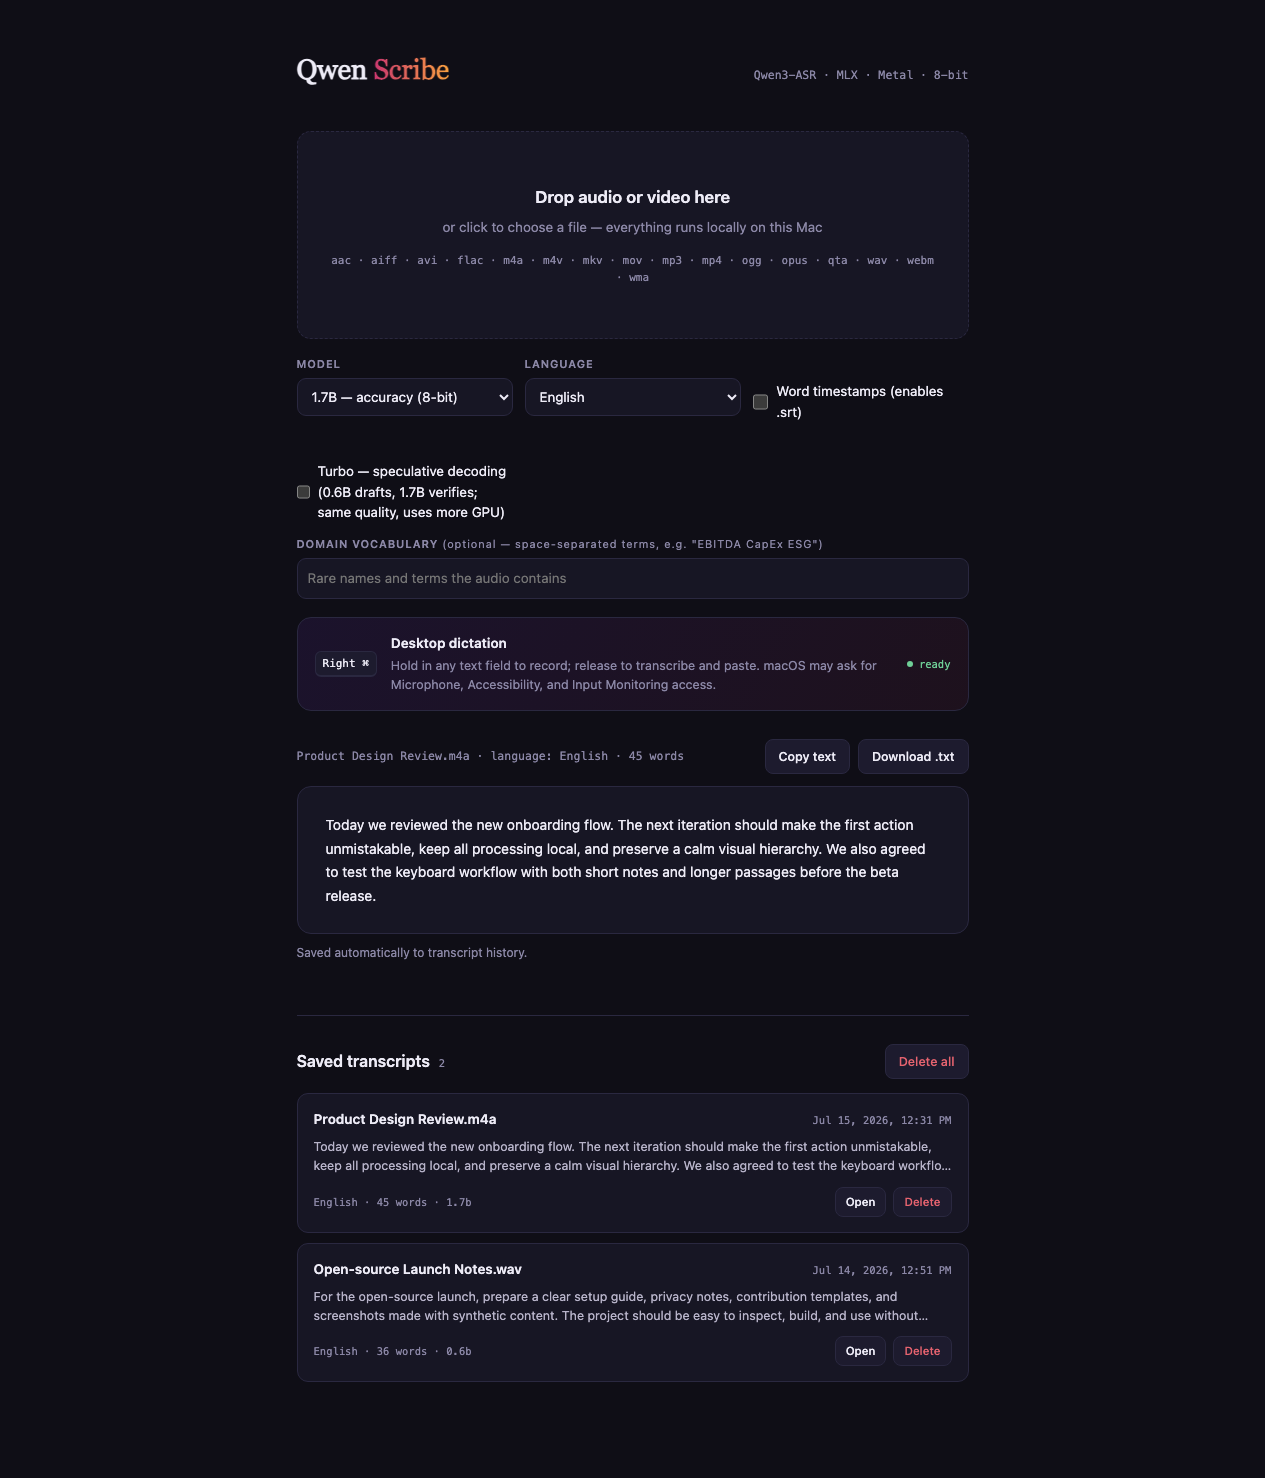
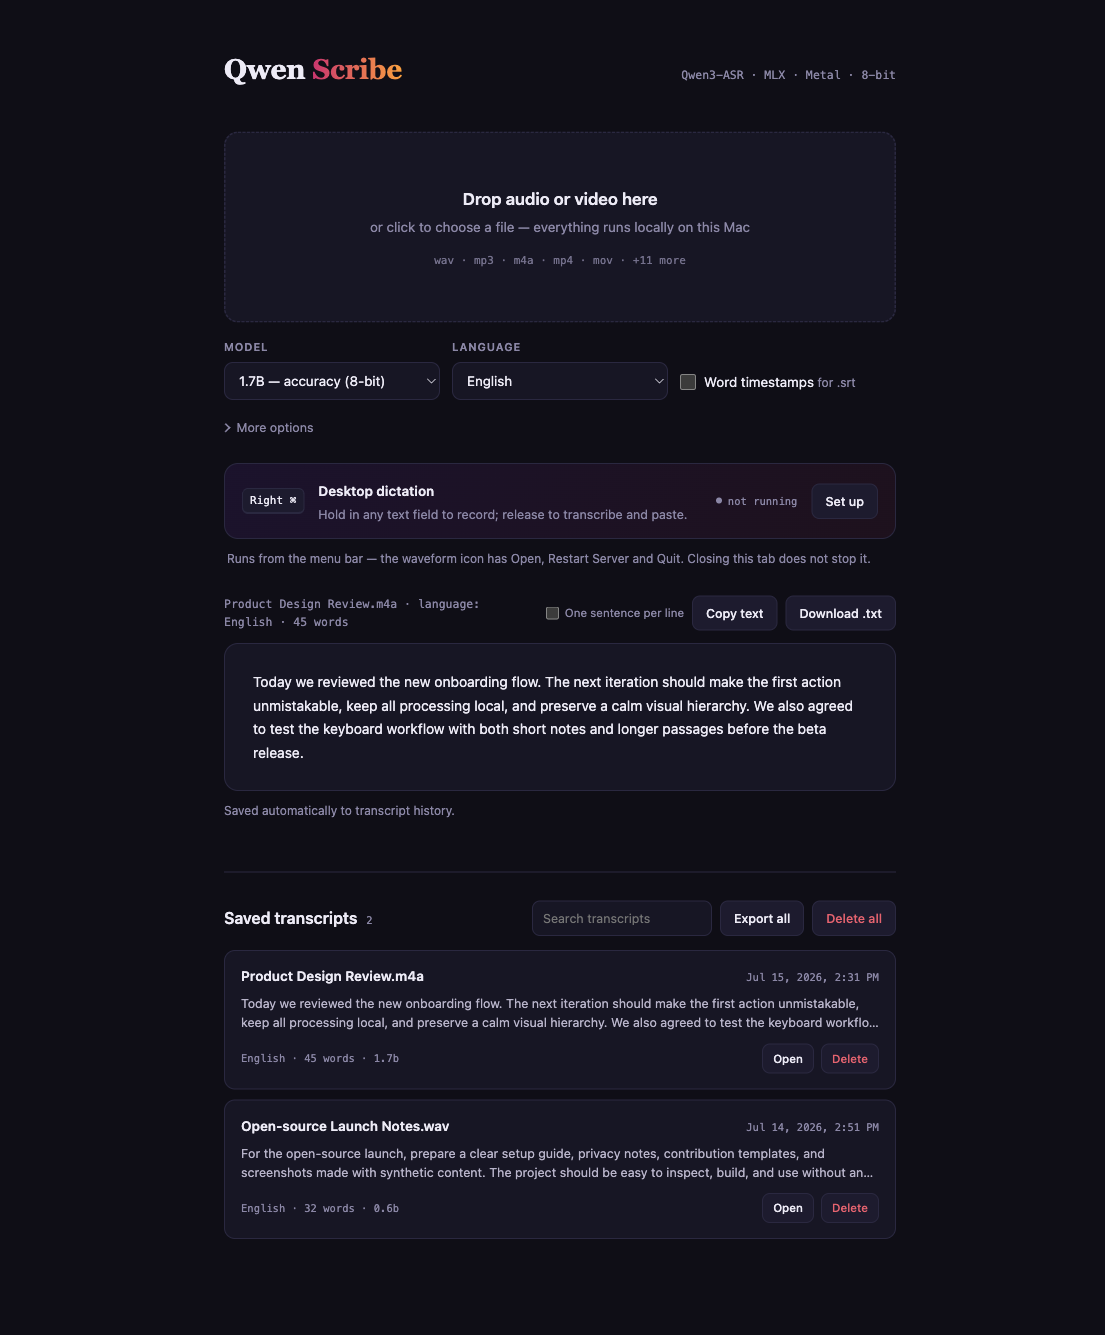
Give the page a primary path instead of showing everything at once (#13)
* Give the page a primary path instead of showing everything at once

The interface had grown to show every control it owns, all at the same
weight, before the user had done anything: five dropdowns, two checkboxes,
a text field, six uppercase labels, three paragraphs of prose and a
seventeen-item format list. v0.2.2 was much of that — the size-limit note,
the menu-bar paragraph, the sentence-per-line toggle and the queue all
arrived without anything leaving to make room.

What stays visible is what a person changes per file: the drop zone, model,
language, and word timestamps. Domain vocabulary, the full format list and
the size limit move into a "More options" disclosure, which opens itself
when anything inside it is non-default — a setting that is doing something
is never hidden behind a summary nobody has reason to open.

Speculative decoding is no longer offered. Its own label admitted it is
slower than the default, so it was a control whose honest description told
people not to use it. The server keeps the parameter; only the checkbox
goes, until it is actually faster.

Desktop dictation becomes one strip rather than a card with two paragraphs
and three dropdowns above the fold. Its settings move behind "Set up",
which also ends the collision between Model/Language and Dictation
model/Dictation language — near-identical controls for different tasks that
were previously on screen together. The permissions sentence now appears
[…]

diff --git a/static/index.html b/static/index.html
@@ -20,6 +20,9 @@
     --radius: 14px;
   }
   * { box-sizing: border-box; margin: 0; padding: 0; }
+  /* A class that sets `display` outranks the user agent's [hidden] rule, so
+     without this a hidden .options grid stays on screen. */
+  [hidden] { display: none !important; }
   html { color-scheme: dark; }
   body {
     background: var(--bg);
@@ -66,8 +69,7 @@
   .drop.dragover { border-color: var(--amber); background: var(--panel-2); }
   .drop h2 { font-size: 17px; font-weight: 600; margin-bottom: 6px; }
   .drop p { color: var(--muted); font-size: 13.5px; }
-  .drop .formats { font-family: ui-monospace, "SFMono-Regular", Menlo, monospace; font-size: 11px; margin-top: 14px; color: var(--muted); }
-  .drop .drop-note { font-size: 11.5px; margin-top: 10px; opacity: .72; }
+  .drop .formats { font-family: ui-monospace, "SFMono-Regular", Menlo, monospace; font-size: 11px; margin-top: 14px; color: var(--muted); opacity: .8; }
   input[type=file] { display: none; }
 
   /* Options */
@@ -100,11 +102,43 @@
   .field-wide { grid-column: 1 / -1; }
   .check { display: flex; align-items: center; gap: 8px; padding-top: 26px; }
   .check input { accent-color: var(--amber); width: 16px; height: 16px; }
-  .check label { font-size: 13.5px; cursor: pointer; }
+  .check label { font-size: 13.5px; cursor: pointer; white-space: nowrap; }
+  .check .hint { color: var(--muted); font-size: 12px; }
+
+  /* Secondary options — present, but not competing with the primary path */
+  .more { margin-top: 14px; }
+  .more > summary {
+    display: inline-flex;
+    align-items: center;
+    gap: 6px;
+    width: fit-content;
+    font-size: 12.5px;
+    color: var(--muted);
+    cursor: pointer;
+    list-style: none;
+    padding: 4px 0;
+  }
+  .more > summary::-webkit-details-marker { display: none; }
+  .more > summary::before {
+    content: "";
+    width: 5px; height: 5px;
+    border-right: 1.5px solid currentColor;
+    border-bottom: 1.5px solid currentColor;
+    transform: rotate(-45deg) translate(-1px, -1px);
+    transition: transform 140ms ease;
+  }
+  .more[open] > summary::before { transform: rotate(45deg) translate(-1px, -1px); }
+  .more > summary:hover, .more > summary:focus-visible { color: var(--text); outline: none; }
+  .more-body { margin-top: 10px; }
+  .more-note { color: var(--muted); font-size: 12px; line-height: 1.55; margin-top: 10px; }
+  .more-note #formatsFull { font-family: ui-monospace, "SFMono-Regular", Menlo, monospace; font-size: 11px; }
 
   /* Desktop dictation */
+  /* The card keeps its weight — dictation is a real capability, and the panel
+     is what makes it read as one. What it does not get back is the two
+     paragraphs of prose that used to fill it. */
   .dictation {
-    margin-top: 18px;
+    margin-top: 22px;
     display: flex;
     align-items: center;
     gap: 14px;
@@ -114,9 +148,10 @@
     padding: 15px 17px;
   }
   .dictation-copy { flex: 1; min-width: 0; }
-  .dictation-title { display: flex; align-items: center; gap: 9px; font-size: 13.5px; font-weight: 600; }
-  .dictation-copy p { color: var(--muted); font-size: 12.5px; line-height: 1.5; margin-top: 3px; }
-  .dictation-copy p + p { margin-top: 7px; }
+  .dictation-title { font-size: 13.5px; font-weight: 600; }
+  .dictation-lede { display: block; color: var(--muted); font-size: 12.5px; line-height: 1.5; margin-top: 2px; }
+  .dictation-permissions { color: var(--amber); font-size: 12.5px; line-height: 1.5; margin-top: 6px; }
+  .menubar-note { color: var(--muted); font-size: 12px; line-height: 1.5; margin-top: 10px; padding: 0 3px; }
   .dictation-status { font-family: ui-monospace, "SFMono-Regular", Menlo, monospace; font-size: 10.5px; color: var(--muted); white-space: nowrap; }
   .dictation-status::before { content: ""; display: inline-block; width: 6px; height: 6px; border-radius: 50%; background: var(--muted); margin-right: 6px; vertical-align: 1px; }
   .dictation-status.ready { color: var(--ok); }
@@ -171,9 +206,18 @@
   /* Transcript */
   .transcript { margin-top: 28px; display: none; }
   .transcript.visible { display: block; }
-  .t-head { display: flex; justify-content: space-between; align-items: center; margin-bottom: 12px; }
-  .t-meta { font-family: ui-monospace, "SFMono-Regular", Menlo, monospace; font-size: 11.5px; color: var(--muted); }
-  .t-actions { display: flex; gap: 8px; align-items: center; }
+  .t-head { display: flex; justify-content: space-between; align-items: center; gap: 16px; margin-bottom: 12px; }
+  /* The actions keep their width so a button is never broken across two lines;
+     the metadata wraps instead, since truncating it loses the word count. */
+  .t-meta {
+    font-family: ui-monospace, "SFMono-Regular", Menlo, monospace;
+    font-size: 11.5px;
+    color: var(--muted);
+    min-width: 0;
+    overflow-wrap: anywhere;
+  }
+  .t-actions { display: flex; gap: 8px; align-items: center; flex: none; }
+  .t-actions button.act { white-space: nowrap; }
   .t-toggle { display: flex; align-items: center; gap: 6px; font-size: 11.5px; color: var(--muted); white-space: nowrap; cursor: pointer; }
   button.act {
     background: var(--panel-2);
@@ -269,8 +313,7 @@
   <div class="drop" id="drop" tabindex="0" role="button" aria-label="Upload audio or video file">
     <h2>Drop audio or video here</h2>
     <p>or click to choose a file — everything runs locally on this Mac</p>
-    <div class="formats" id="formats">wav · mp3 · m4a · flac · ogg · qta · mp4 · mov · mkv · webm</div>
-    <p class="drop-note">Up to 4 GB per file — the upload is staged on disk before transcribing. For a longer video, extract the audio track first.</p>
+    <div class="formats" id="formats">wav · mp3 · m4a · mp4 · mov</div>
   </div>
   <input type="file" id="file" accept="audio/*,video/*,.mkv,.opus,.qta">
 
@@ -288,26 +331,36 @@
     </div>
     <div class="check">
       <input type="checkbox" id="timestamps">
-      <label for="timestamps">Word timestamps (enables .srt)</label>
-    </div>
-    <div class="check" id="turboWrap">
-      <input type="checkbox" id="turbo">
-      <label for="turbo">Experimental speculative decoding — currently slower in upstream benchmarks; same quality, uses more GPU</label>
-    </div>
-    <div class="field field-wide">
-      <label for="context">Domain vocabulary <span style="text-transform:none;font-weight:400">(optional — space-separated terms, e.g. "EBITDA CapEx ESG")</span></label>
-      <input type="text" id="context" maxlength="2000" placeholder="Rare names and terms the audio contains">
+      <label for="timestamps">Word timestamps <span class="hint">for .srt</span></label>
     </div>
   </div>
+
+  <details class="more" id="moreOptions">
+    <summary>More options</summary>
+    <div class="more-body">
+      <div class="field">
+        <label for="context">Domain vocabulary</label>
+        <input type="text" id="context" maxlength="2000" placeholder="Rare names and terms the audio contains — space separated, e.g. EBITDA CapEx ESG">
+      </div>
+      <p class="more-note">
+        Accepts <span id="formatsFull">audio and video files</span>.
+        Up to 4 GB per file: the upload is staged on disk before transcribing, so
+        one job briefly needs twice the file's size free. For a longer video,
+        transcribe its extracted audio track instead.
+      </p>
+    </div>
+  </details>
 
   <div class="dictation" aria-live="polite">
     <kbd id="dictationKey">Right ⌘</kbd>
     <div class="dictation-copy">
-      <div class="dictation-title">Desktop dictation</div>
-      <p>Hold in any text field to record; release to transcribe and paste. macOS may ask for Microphone, Accessibility, and Input Monitoring access.</p>
-      <p>Qwen Scribe runs from the menu bar — the waveform icon at the top right of the screen has Open, Restart Server, and Quit. Closing this tab does not stop it.</p>
+      <span class="dictation-title">Desktop dictation</span>
+      <span class="dictation-lede">Hold in any text field to record; release to transcribe and paste.</span>
+      <p class="dictation-permissions" id="dictationPermissions" hidden></p>
     </div>
     <div class="dictation-status" id="dictationStatus">starting</div>
+    <button class="act" id="btnDictationSetup" aria-expanded="false"
+            aria-controls="dictationSettings" hidden>Set up</button>
   </div>
 
   <div class="options dictation-settings" id="dictationSettings" hidden>
@@ -325,6 +378,8 @@
     </div>
     <div class="settings-note field-wide" id="settingsNote">Changes apply to desktop dictation within about ten seconds.</div>
   </div>
+
+  <p class="menubar-note">Runs from the menu bar — the waveform icon has Open, Restart Server and Quit. Closing this tab does not stop it.</p>
 
   <div class="job" id="job">
     <div class="job-head">
@@ -446,7 +501,15 @@
     // the picker filter, and the upload check can never drift apart.
     if (Array.isArray(cfg.extensions) && cfg.extensions.length) {
       allowedExtensions = new Set(cfg.extensions.map(e => e.toLowerCase()));
-      $("formats").textContent = cfg.extensions.map(e => e.replace(/^\./, "")).join(" · ");
+      const bare = cfg.extensions.map(e => e.replace(/^\./, ""));
+      // The drop zone names the handful of formats people actually have; the
+      // full list is reassurance, not instruction, so it lives in More options.
+      const COMMON = ["wav", "mp3", "m4a", "mp4", "mov"];
+      const shown = COMMON.filter(e => bare.includes(e));
+      const rest = bare.length - shown.length;
+      $("formats").textContent =
+        shown.join(" · ") + (rest > 0 ? ` · +${rest} more` : "");
+      $("formatsFull").textContent = bare.join(", ");
       $("file").accept = cfg.extensions.join(",");
     }
     if (cfg.quantized) {
@@ -516,7 +579,8 @@
     form.append("model", $("model").value);
     form.append("language", $("language").value);
     form.append("timestamps", $("timestamps").checked);
-    form.append("turbo", $("turbo").checked && $("model").value === "1.7b");
+    // Speculative decoding is not offered: the pinned upstream implementation
+    // benchmarks slower than plain decoding, so the server default stands.
     form.append("context", $("context").value);
 
     let res;
@@ -795,13 +859,6 @@
     }
   }
 
-  function syncTurboAvailability() {
-    const is06 = $("model").value === "0.6b";
-    $("turbo").disabled = is06;
-    $("turboWrap").style.opacity = is06 ? 0.4 : 1;
-  }
-  $("model").addEventListener("change", syncTurboAvailability);
-
   // Split after sentence-final punctuation, keeping the mark — and any closing
   // quote or bracket belonging to it — on the sentence it ends. Two cases,
   // because Chinese and Japanese are written without spaces: an ideographic
@@ -1030,7 +1087,9 @@
     fill($("setModel"), body.options.models, body.dictation.model);
     fill($("setLanguage"), body.options.languages, body.dictation.language);
     $("dictationKey").textContent = HOTKEY_LABELS[body.dictation.hotkey] || "Right ⌘";
-    $("dictationSettings").hidden = false;
+    // The settings themselves stay folded away; only the way in appears, and
+    // only once there is something behind it to show.
+    $("btnDictationSetup").hidden = false;
     await configReady.catch(() => {});
     applyTranscriptionSettings(body.transcription);
   }
@@ -1042,16 +1101,17 @@
     $("model").value = stored.model;
     $("language").value = stored.language;
     $("timestamps").checked = stored.timestamps;
-    $("turbo").checked = stored.turbo;
     // This also runs when a later save fails and resyncs everything, so an
     // edit still inside its debounce must not be overwritten by the value it
     // is about to replace.
     if (contextSaveTimer === null) $("context").value = stored.context;
     $("oneSentencePerLine").checked = stored.sentence_per_line;
+    // Never leave a setting that is doing something hidden behind a summary
+    // the user has no reason to open.
+    if (stored.context) $("moreOptions").open = true;
     // Called directly rather than by dispatching "change", which would also
     // fire the save listener and write the settings straight back on load.
     // The redraw that listener would have triggered still has to happen.
-    syncTurboAvailability();
     renderTranscriptBody();
   }
 
@@ -1073,7 +1133,7 @@
     transcriptionSavesBound = true;
     ["model", "language"].forEach(id =>
       $(id).addEventListener("change", () => saveTranscription({ [id]: $(id).value })));
-    ["timestamps", "turbo"].forEach(id =>
+    ["timestamps"].forEach(id =>
       $(id).addEventListener("change", () => saveTranscription({ [id]: $(id).checked })));
     $("oneSentencePerLine").addEventListener("change", () =>
       saveTranscription({ sentence_per_line: $("oneSentencePerLine").checked }));
@@ -1226,6 +1286,21 @@
     }
   });
 
+  $("btnDictationSetup").addEventListener("click", () => {
+    const open = $("dictationSettings").hidden;
+    $("dictationSettings").hidden = !open;
+    $("btnDictationSetup").setAttribute("aria-expanded", String(open));
+    $("btnDictationSetup").textContent = open ? "Done" : "Set up";
+  });
+
+  // Named for the permission macOS is actually withholding, so the sentence
+  // below can say what to grant rather than listing all three every time.
+  const PERMISSION_LABELS = {
+    microphone: "Microphone",
+    input_monitoring: "Input Monitoring",
+    accessibility: "Accessibility",
+  };
+
   async function refreshDictationStatus() {
     const status = $("dictationStatus");
     try {
@@ -1255,6 +1330,18 @@
       status.textContent = message;
       status.classList.toggle("ready", ready);
       status.classList.toggle("needs-permission", needsPermission);
+      // Only worth saying while it is still actionable. Once macOS has granted
+      // everything, a standing paragraph about permissions is just noise.
+      const missing = Object.keys(PERMISSION_LABELS)
+        .filter(name => state[name] === false)
+        .map(name => PERMISSION_LABELS[name]);
+      const note = $("dictationPermissions");
+      note.hidden = missing.length === 0;
+      if (missing.length) {
+        note.textContent =
+          `Grant ${missing.join(", ")} to Qwen Scribe in System Settings → `
+          + "Privacy & Security, then hold the key again.";
+      }
       // The hotkey can also change from the menu bar; the status poll keeps
       // the badge honest either way.
       if (state.shortcut) $("dictationKey").textContent = state.shortcut;
@@ -1262,6 +1349,7 @@
       status.textContent = "not running";
       status.classList.remove("ready");
       status.classList.remove("needs-permission");
+      $("dictationPermissions").hidden = true;
     }
   }
 

diff --git a/CHANGELOG.md b/CHANGELOG.md
@@ -32,9 +32,25 @@ from someone who ran real video files through v0.2.1-beta.1.
 
 ### Changed
 
-- The 4 GB per-file cap is now stated on the drop zone and in the README, and
-  the error explains that it protects against a staged upload needing twice
-  the file's size in free disk space rather than being a model limit
+- The interface now has a primary path instead of showing every control it
+  owns at once. What stays on screen is what changes per file — the drop
+  zone, model, language, and word timestamps. Domain vocabulary, the full
+  format list, and the size limit moved into a "More options" disclosure that
+  opens itself whenever something inside it is set, so a setting that is
+  doing something is never hidden
+- Desktop dictation is one card of two lines rather than two paragraphs with
+  three dropdowns permanently open beneath it. Its push-to-talk key, model,
+  and language moved behind "Set up", which also means the dictation
+  selectors and the file-transcription ones are no longer on screen together
+- The macOS permission note appears only while a permission is actually
+  missing, and names the ones being withheld instead of listing all three
+- Speculative decoding is no longer offered in the interface. Its own label
+  said it is slower than normal decoding, which made it a control whose
+  honest description told people not to use it; the server still accepts the
+  parameter, so it can return when it is genuinely faster
+- The 4 GB per-file cap is now explained in "More options" and in the README,
+  and the error explains that it protects against a staged upload needing
+  twice the file's size in free disk space rather than being a model limit
 - The web interface now says that Qwen Scribe is a menu-bar app, and that Open,
   Restart Server, and Quit live there — a tester reported being unable to find
   any way to quit or restart it
@@ -60,6 +76,10 @@ from someone who ran real video files through v0.2.1-beta.1.
   now: a double click queues one job, not two
 - A job cancelled just as its last chunk finished could still complete and
   save itself to history after the interface had already reported it stopping
+- The transcript header no longer breaks "Copy text" and "Download .txt"
+  across two lines each when the filename is long
+- `hidden` had no effect on the settings rows, because a class setting
+  `display` outranks the browser's own rule for the attribute
 ## [0.2.1-beta.1] - 2026-08-02
 
 ### Fixed

diff --git a/README.md b/README.md
@@ -127,7 +127,8 @@ browser tab open at all.
 | --- | --- |
 | Maximum file size | **4 GB.** The upload is staged in a temporary folder before decoding, so one job briefly needs twice the file's size in free disk space. This is not a model limit — for a longer video, extract the audio track first: `ffmpeg -i input.mp4 -vn -ac 1 -ar 16000 output.wav` |
 | Concurrency | One file at a time. Further uploads queue; the Queue list shows the order, and each entry can be cancelled, a failed one retried without re-uploading. Cancelling a waiting file is immediate; cancelling the one being transcribed takes effect when the current 30-second chunk finishes, since a model call cannot be interrupted part-way |
-| Vocabulary hints | Up to 2000 characters. The hint is added to every chunk's prompt, so it is paid for once per chunk of the file |
+| Vocabulary hints | Up to 2000 characters, under **More options**. The hint is added to every chunk's prompt, so it is paid for once per chunk of the file |
+| Dictation settings | The push-to-talk key, model, and language live behind **Set up** on the dictation card, and apply within about ten seconds. They are separate from the model and language used for file transcription |
 | Languages | Automatic detection, or any of the fourteen Qwen3-ASR supports. Word timestamps for Japanese and Korean use the tokenizers shipped in `requirements-lock.txt`; if the aligner cannot run, the transcript is still produced and saved, without the `.srt` |
 
 ## Desktop dictation permissions
